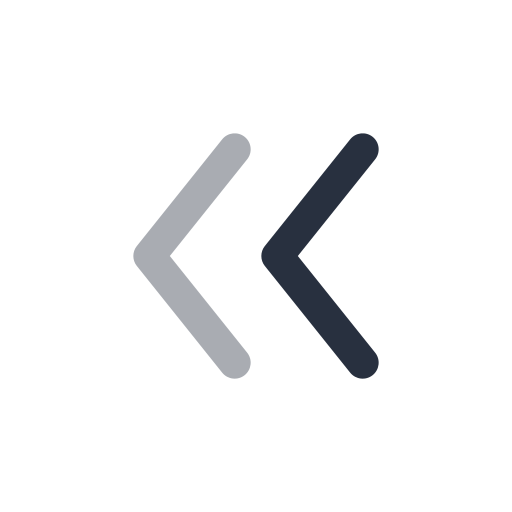
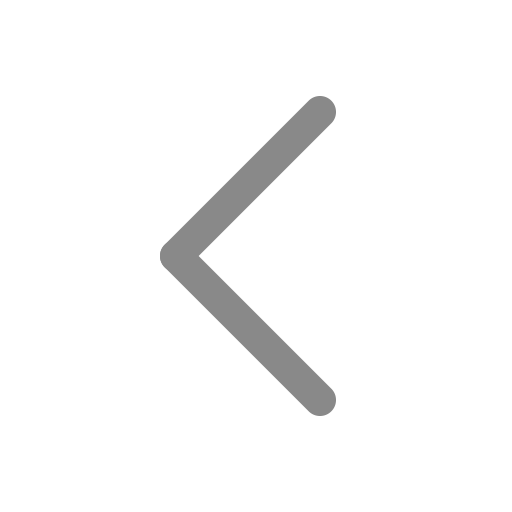
feature/alia-login-signup-frontend=finished

Changed region(s): [[0.25, 0.1875, 0.6562, 0.8125], [0.5, 0.25, 0.75, 0.75]]

diff --git a/client/src/components/LoginSignup/LoginSignup.css b/client/src/components/LoginSignup/LoginSignup.css
@@ -15,8 +15,8 @@
 }
 .returnLogin{
    background-color: white;
-   width: 50px;
-   height: 50px;
+   width: 40px;
+   height: 40px;
    border-radius: 50%;
    position:absolute;
    left: 2%;
@@ -24,8 +24,15 @@
 
 }
 .returnLogin:hover{
-   background-color:#f3f6fc;
+   box-shadow: 0px 0px 5px white;
+   
 
+}
+
+.returnLogin img{
+   width: 40px;
+   height: 40px;
+   object-fit: fill;
 }
 
 .LoginSignup .companyName{
@@ -127,21 +134,29 @@
    display: flex;
    align-items: center;
    justify-content: center;
-   height:4rem;
-   width:4rem;
+   height:4.5rem;
+   width:4.5rem;
    background-color: white;
    border-radius: 50%;
 }
 
 
 .Page1_signUpMethods div:hover{
-   box-shadow: 0px 0px 5px white;
+   /* box-shadow: 0px 0px 8px white;
+   background-color: white; */
+
+   height:4.5rem;
+   width:4.5rem;
+   border: 3px solid white
+
+
 }
 
 
 .Page1_signUpMethods img{
-   height:80%;
-   width:80%;
+   height:4rem;
+   width:4rem;
+   object-fit: scale-down;
    background-color: white;
    border-radius: 50%;
 }

diff --git a/client/src/App.js b/client/src/App.js
@@ -5,9 +5,9 @@ import SignUp from "./components/LoginSignup/SignUp";
 import { useState } from "react";
 
 function App() {
-  const [login, setLogin] = useState(true);
+  const [login, setLogin] = useState(() => true);
   function flipLogin(login) {
-    setLogin(!login);
+    setLogin((preval) => !preval);
   }
 
   return (
@@ -16,7 +16,7 @@ function App() {
         {login ? (
           <Login switchSignUp={flipLogin} />
         ) : (
-          <SignUp swithcLogin={flipLogin} />
+          <SignUp switchSignUp={flipLogin} />
         )}
       </div>
     </div>

diff --git a/client/src/components/LoginSignup/SignUp.jsx b/client/src/components/LoginSignup/SignUp.jsx
@@ -9,7 +9,7 @@ import verification from '../assets/verification_code.png'
 const SignUp = (props) => {
   return (
     <div className='LoginSignup'>
-      <div className="returnLogin" onClick={props.swithcLogin}>
+      <div className="returnLogin" onClick={props.switchSignUp}>
         <img src={leftArrow_icon} alt="go back" />
 
       </div>
